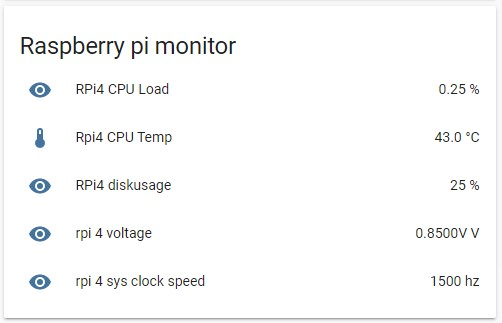
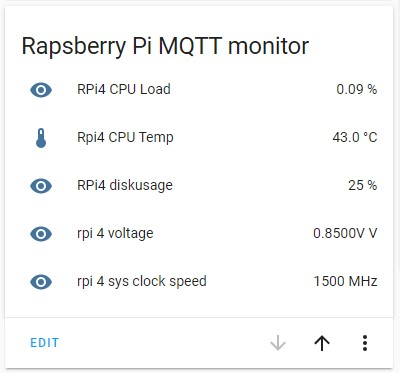
home assistant sensors configuration

diff --git a/README.md b/README.md
@@ -1,9 +1,8 @@
 # Rapsberry Pi MQTT monitor
-Python 2 script to check cpu load, cpu temperature, free space, voltage and system clock speed
+Python script to check cpu load, cpu temperature, free space, voltage and system clock speed
 on a Raspberry Pi computer and publish the data to a MQTT server.
 
-I wrote this so I can monitor my raspberries at home with home assistant. The script is writen for python 2
-as when I wrote it one of the used python modules was not available for python 3. (if the modules are available for python 3 now the script shuold have no problems running on python 3 - plan to check that in the near feature)
+I wrote this so I can monitor my raspberries at home with [home assistant](https://www.home-assistant.io/). The script was written and tested on Python 2 but it should work fine on Python 3.
 The script if very light, it takes 4 seconds as there are 4 one second sleeps in the code - due to mqtt have problems if I shoot the messages with no delay.
 
 # Installation:
@@ -26,6 +25,36 @@ Create a cron entry like this (you might need to update the path on the cron ent
 
 */2 * * * * /usr/bin/python /home/pi/scripts/rpi-cpu2mqtt.py
 
-Home Assistant Integration
+# Home Assistant Integration
 
 ![Rapsberry Pi MQTT monitor in Home Assistant](images/rpi-cpu2mqtt-hass.jpg)
+
+Once you installed the script on your raspberry you need to create some sensors in home assistant.
+
+This is the sensors configuration assuming your sensors are separated in sensors.yaml file.
+```yaml
+  - platform: mqtt
+    state_topic: "masoko/rpi4/cpuload"
+    name: rpi 4 cpu load
+    unit_of_measurement: "%"
+
+  - platform: mqtt
+    state_topic: "masoko/rpi4/cputemp"
+    name: rpi 4 cpu temp
+    unit_of_measurement: "°C"
+
+  - platform: mqtt
+    state_topic: "masoko/rpi4/diskusage"
+    name: rpi 4 diskusage
+    unit_of_measurement: "%"
+
+  - platform: mqtt
+    state_topic: "masoko/rpi4/voltage"
+    name: rpi 4 voltage
+    unit_of_measurement: "V"
+
+  - platform: mqtt
+    state_topic: "masoko/rpi4/sys_clock_speed"
+    name: rpi 4 sys clock speed
+    unit_of_measurement: "hz"
+```
